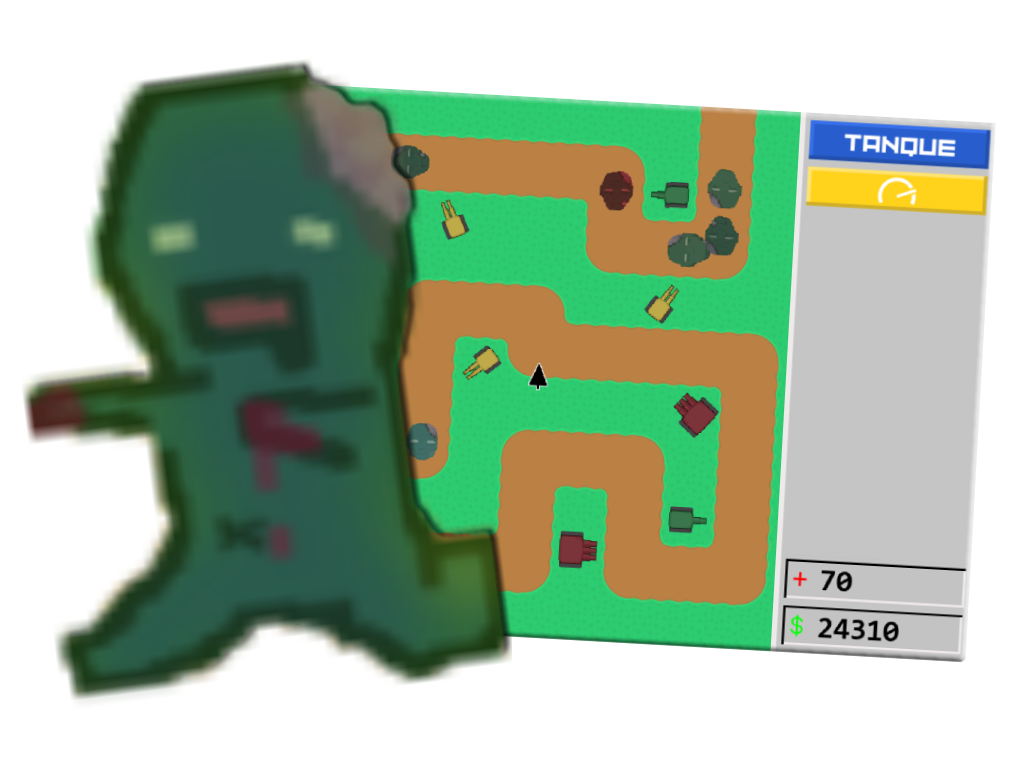
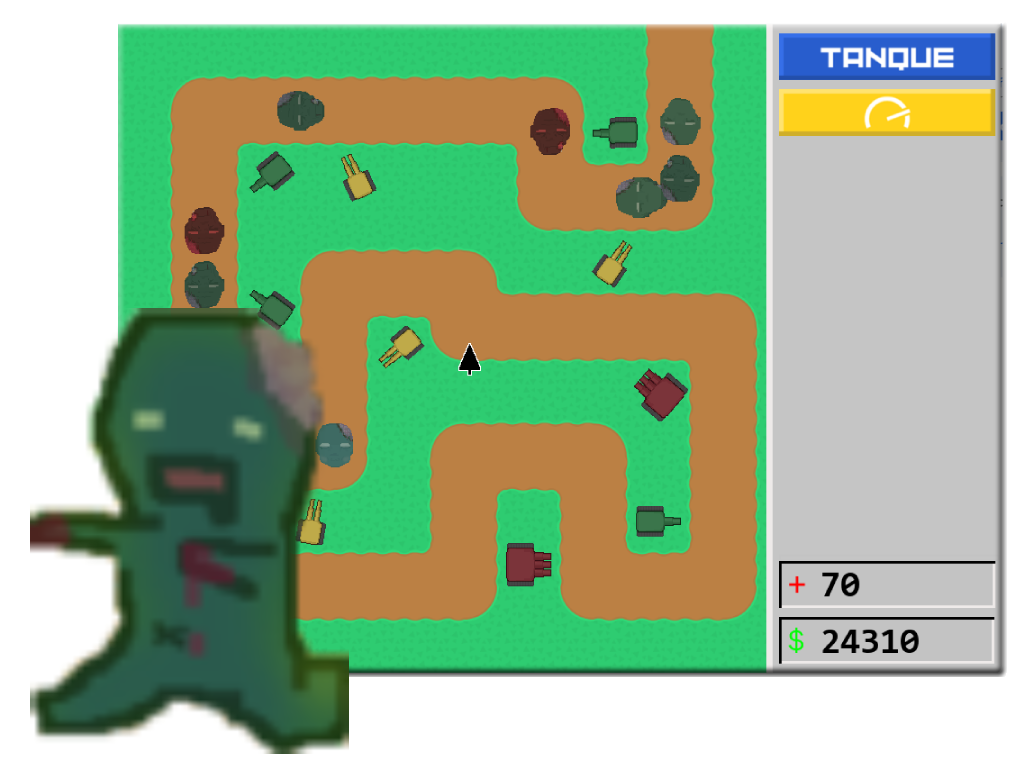
Cambios

diff --git a/index.htm b/index.htm
@@ -92,49 +92,62 @@
 
         </div>
         <!-- Foto -->
+
         <!-- Lenguajes y programas que uso -->
         <div class = "col-6 text-center">
 
-            <p> Lenguajes que domino </p>
+            <div class = "align-items-top">
 
-            <div class = "logoBox">
+                <p> Lenguajes que domino </p>
 
-            <img class = "logo" src = "images/logos/python.svg" alt = "Python">
+                <div class = "logoBox">
 
-            <img class = "logo" src = "images/logos/html.svg" alt = "HTML">
+                    <img class = "logo" src = "images/logos/python.svg" alt = "Python">
 
-            <img class = "logo" src = "images/logos/css.svg" alt = "CSS">
+                    <img class = "logo" src = "images/logos/html.svg" alt = "HTML">
 
-            <img class = "logo" src = "images/logos/mysql.svg" alt = "MySQL">
+                    <img class = "logo" src = "images/logos/css.svg" alt = "CSS">
 
-            </div>
+                    <img class = "logo" src = "images/logos/mysql.svg" alt = "MySQL">
 
-            <p> Programas que utilizo </p>
-            
-            <div class = "logoBox">
-
-            <img class = "logo" src = "images/logos/visual_studio_code.svg" alt = "Visual Studio Code">
-
-            <img class = "logo" src = "images/logos/github.svg" alt = "GitHub">
-
-            <img class = "logo" src = "images/logos/gitbash.svg" alt = "GitBash">
-
-            <img class = "logo" src = "images/logos/photopea.svg" alt = "Photopea">
-
-            <img class = "logo" src = "images/logos/canva.svg" alt = "Canva">
+                </div>
 
             </div>
 
-            <p class = "text-wrap" id = "cv"> 
-            ¿Deseas conocer más sobre mí? <br>
-            Haz click en este botón y 
-            </p>
-            
-            <a href = "files/Rodriguez Dante CV.pdf"
-            class = "btn btn-success btn-lg"
-            role = "button"
-            target = "_blank"
-            download = "Rodriguez Dante CV"> Descargá mi CV </a>
+            <div class = "align-items-center">
+
+                <p> Programas que utilizo </p>
+                
+                <div class = "logoBox">
+
+                    <img class = "logo" src = "images/logos/visual_studio_code.svg" alt = "Visual Studio Code">
+
+                    <img class = "logo" src = "images/logos/github.svg" alt = "GitHub">
+
+                    <img class = "logo" src = "images/logos/gitbash.svg" alt = "GitBash">
+
+                    <img class = "logo" src = "images/logos/photopea.svg" alt = "Photopea">
+
+                    <img class = "logo" src = "images/logos/canva.svg" alt = "Canva">
+
+                </div>
+
+            </div>
+
+            <div class = "align-items-bottom">
+
+                <p class = "text-wrap" id = "cv"> 
+                ¿Deseas conocer más sobre mí? <br>
+                Haz click en este botón y 
+                </p>
+                
+                <a href = "files/Rodriguez Dante CV.pdf"
+                class = "btn btn-success btn-lg"
+                role = "button"
+                target = "_blank"
+                download = "Rodriguez Dante CV"> Descargá mi CV </a>
+
+            </div>
 
         </div>
         <!-- Lenguajes y programas que uso -->

diff --git a/gjgjg.htm b/gjgjg.htm
@@ -1,0 +1,33 @@
+
+            <div class = "align-items-top">
+
+                <p> Lenguajes que domino </p>
+
+                <div class = "logoBox">
+
+                    <img class = "logo" src = "images/logos/python.svg" alt = "Python">
+
+                    <img class = "logo" src = "images/logos/html.svg" alt = "HTML">
+
+                    <img class = "logo" src = "images/logos/css.svg" alt = "CSS">
+
+                    <img class = "logo" src = "images/logos/mysql.svg" alt = "MySQL">
+
+                </div>
+
+            </div>
+
+                        <div class = "align-items-bottom">
+
+                <p class = "text-wrap" id = "cv"> 
+                ¿Deseas conocer más sobre mí? <br>
+                Haz click en este botón y 
+                </p>
+                
+                <a href = "files/Rodriguez Dante CV.pdf"
+                class = "btn btn-success btn-lg"
+                role = "button"
+                target = "_blank"
+                download = "Rodriguez Dante CV"> Descargá mi CV </a>
+
+            </div>

diff --git a/styles.css b/styles.css
@@ -28,9 +28,9 @@
     src: url(fonts/PaletteMosaic-Regular.ttf);
 }
 
-root {
+:root {
     --primary-color: #ffffff;
-    --secondary-color: #d3d3d3;
+    --secondary-color: #dadada;
     --text-color: #000000;
 }
 
@@ -38,6 +38,12 @@ modo_oscuro {
     --primary-color: #000000;
     --secondary-color: #3f3f3f; 
     --text-color: #ffffff;
+}
+
+body, html {
+    height: 100%;
+    padding: 12px;
+    margin: 12px;
 }
 
 h1 {
